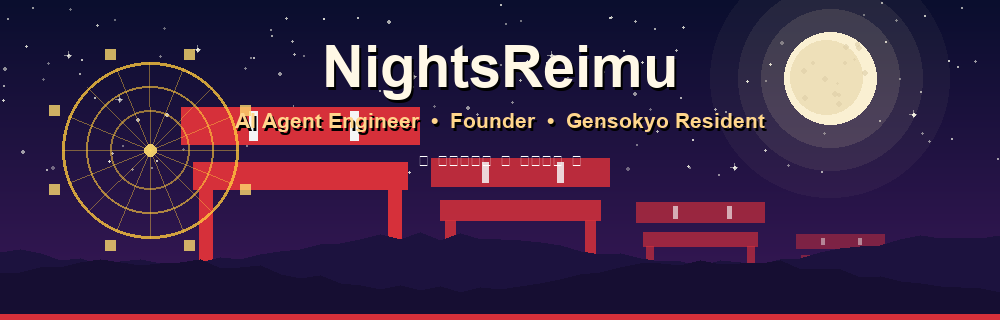
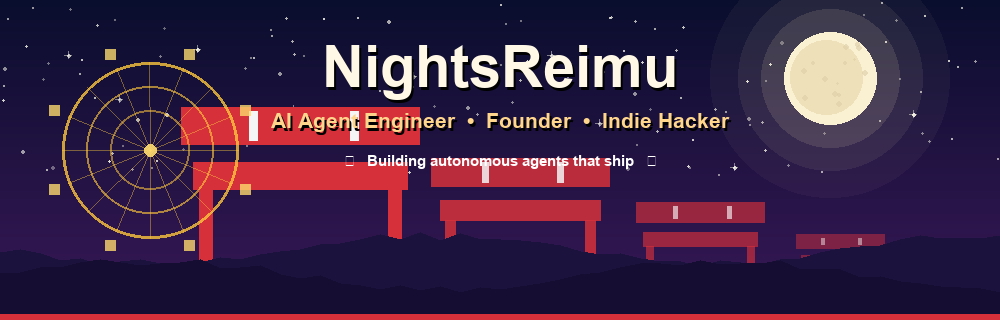
♻ Rework profile: implicit Eastern aesthetic, focus on AI engineering & founder identity

Changed region(s): [[0.217, 0.3438, 0.775, 0.4375], [0.341, 0.4688, 0.651, 0.5312]]

diff --git a/README.md b/README.md
@@ -1,47 +1,46 @@
 <p align="center">
-  <img src="assets/banner.png" alt="NightsReimu — Gensokyo's AI Agent Engineer" width="100%"/>
+  <img src="assets/banner.png" alt="NightsReimu — AI Agent Engineer & Founder" width="100%"/>
 </p>
 
 <p align="center">
   <img src="https://komarev.com/ghpvc/?username=NightsReimu&label=Visitors&color=ff69b4&style=flat-square" alt="visitors"/>
   <img src="https://img.shields.io/badge/role-AI%20Agent%20Engineer-ff69b4?style=flat-square&logo=openai&logoColor=white" alt="role"/>
-  <img src="https://img.shields.io/badge/status-Founding%20%F0%9F%9A%80-9b59b6?style=flat-square" alt="status"/>
-  <img src="https://img.shields.io/badge/habitat-Gensokyo%20%E2%9B%B3-8e44ad?style=flat-square" alt="habitat"/>
-  <img src="https://img.shields.io/badge/incident%20level-0%20border%20breaches%20%F0%9F%98%8C-2ecc71?style=flat-square" alt="incidents"/>
+  <img src="https://img.shields.io/badge/status-Founder%20%F0%9F%9A%80-9b59b6?style=flat-square" alt="status"/>
+  <img src="https://img.shields.io/badge/freelance-open%20to%20projects-2ecc71?style=flat-square" alt="freelance"/>
+  <img src="https://img.shields.io/badge/focus-autonomous%20agents%20%F0%9F%A4%96-8e44ad?style=flat-square" alt="focus"/>
 </p>
 
 ---
 
 <div align="center">
 
-## 🛕 博麗神社・AI 结界
+## ⛩ AI Engineer · Founder · Indie Hacker
 
 > **"Reality is just another boundary — and I blur it for a living."**
 
-I'm **Reed (NightsReimu)**, an **AI Agent engineer & founder** building autonomous agents
-that cross the boundary between *prototype* and *production*.
+I'm **Reed**, an **AI engineer & founder** building autonomous agents and AI systems
+that cross the line between *prototype* and *production*.
 
-Just as the Hakurei Miko keeps Gensokyo's barrier intact, I keep my agents **safe,
-deterministic & observable** while they do real work in the human world.
+I've gone from **freelancing** to **founding** — shipping AI products with real users,
+real revenue, and production-grade reliability. I keep agents **safe, deterministic
+& observable** while they do real work in the human world.
 
 </div>
 
 ---
 
-## ⛩ Spell Card Arsenal — My Stack
+## ⚔ What I Ship
 
-> Every engineer has spells. These are mine.
-
-| 🎴 Spell Card (Touhou) | 🌙 Human Translation | 🛠 Technology |
+| Focus | What I Do | Stack |
 |---|---|---|
-| 霊符「夢想封印」 | **Agent Orchestration** | LangChain · LangGraph · CrewAI · OpenAI |
-| 夢符「二重結界」 | **RAG & Vector Search** | Chroma · FAISS · pgvector · Embeddings |
-| 紅符「不夜城レッド」 | **Backend Systems** | Python · FastAPI · TypeScript · Node.js |
-| 神霊「夢想封印・瞬」 | **LLM Fine-tuning** | PyTorch · LoRA · vLLM · Datasets |
-| 境界「永夜の防衛線」 | **MCP / Tooling** | MCP Servers · Function Calling · ReAct |
-| 禁呪「星幽剣士」 | **Cloud & Infra** | Docker · Kubernetes · AWS · CI/CD |
-| 珠符「明珠暗投」 | **Data & Memory** | PostgreSQL · Redis · Vector DBs |
-| 天呪「爆発のマジック」 | **Shipping** | Git · GitHub Actions · Monitoring · Observability |
+| 🤖 **Agent Orchestration** | Multi-agent systems, autonomous workflows | LangGraph · CrewAI · OpenAI · ReAct |
+| 🧠 **RAG & Memory** | Retrieval pipelines, long-term memory | Chroma · FAISS · pgvector · Embeddings |
+| ⚙ **Backend Systems** | High-throughput APIs, tooling | Python · FastAPI · TypeScript · Node.js |
+| 🔬 **LLM Engineering** | Fine-tuning, eval, cost optimization | PyTorch · LoRA · vLLM · Evals |
+| 🔌 **MCP / Tooling** | Model Context Protocol servers, integrations | MCP Servers · Function Calling |
+| ☁ **Cloud & Infra** | Scalable, observable deployments | Docker · Kubernetes · AWS · CI/CD |
+| 🗄 **Data & Memory** | Durable state, vector storage | PostgreSQL · Redis · Vector DBs |
+| 🚢 **Shipping** | From idea to production in weeks | Git · GitHub Actions · Monitoring |
 
 <p align="center">
   <img src="https://skillicons.dev/icons?i=python,typescript,javascript,go,rust,react,nextjs,nodejs,fastapi,pytorch,openai,docker,kubernetes,aws,postgres,redis,git,linux" alt="skills"/>
@@ -49,16 +48,16 @@ deterministic & observable** while they do real work in the human world.
 
 ---
 
-## 🌙 What I'm Casting Right Now
+## 🚀 What I'm Building
 
 - 🔮 **Founding** an AI-agent startup — autonomous workers for real-world workflows
 - 🤖 Building **MCP servers & agent tooling** that make LLMs actually useful
+- 💼 **Freelance** — open to AI agent / LLM integration projects
 - 🧪 Experimenting with **multi-agent systems**, memory & long-horizon autonomy
-- 🎴 Occasionally defending Gensokyo from (digital) incidents
 
 ---
 
-## 📊 Gensokyo Records
+## 📊 Track Record
 
 <p align="center">
   <img src="https://github-readme-activity-graph.vercel.app/graph?username=NightsReimu&theme=tokyo-night&hide_border=true" alt="activity graph"/>
@@ -70,29 +69,27 @@ deterministic & observable** while they do real work in the human world.
 
 ---
 
-## 📮 Shrine Mailbox
+## 📮 Contact
 
 - 📧 **Email:** nightsreimu@gmail.com
 - 🐦 **GitHub:** [@NightsReimu](https://github.com/NightsReimu)
 
-> 合作・创业・AI Agent 讨论 → 随时来博丽神社参拜，茶水免费，符卡另算 ☕
+> 合作・创业・AI Agent 项目 → 随时来谈，茶水免费 ☕
 
 ---
 
 <div align="center">
 
 ```
-＿＿＿＿＿＿＿＿＿＿＿＿＿＿＿＿
-│  博 麗 神 社  │  博 麗 神 社  │
-│  AI 結 界    │  完 全 防 御  │
-￣￣￣￣￣￣￣￣￣￣￣￣￣￣￣￣
+夜は短し、コードせよ。
+The night is short — code on.
 ```
 
-**🌙 夜は短し、コードせよ乙女。 — "The night is short, code on, maiden."**
+**Making the impossible boundary a little thinner, one agent at a time. 🌙**
 
 <p>
-  <img src="https://img.shields.io/badge/⭐%20Starred%20by%20Reimu-ff69b4?style=for-the-badge&logo=github" alt="star"/>
-  <img src="https://img.shields.io/badge/Fantasy%20Seal%20%F0%9F%94%92-8e44ad?style=for-the-badge" alt="seal"/>
+  <img src="https://img.shields.io/badge/⭐%20Star%20if%20useful-ff69b4?style=for-the-badge&logo=github" alt="star"/>
+  <img src="https://img.shields.io/badge/Open%20to%20Collaboration-8e44ad?style=for-the-badge" alt="collab"/>
 </p>
 
 </div>
